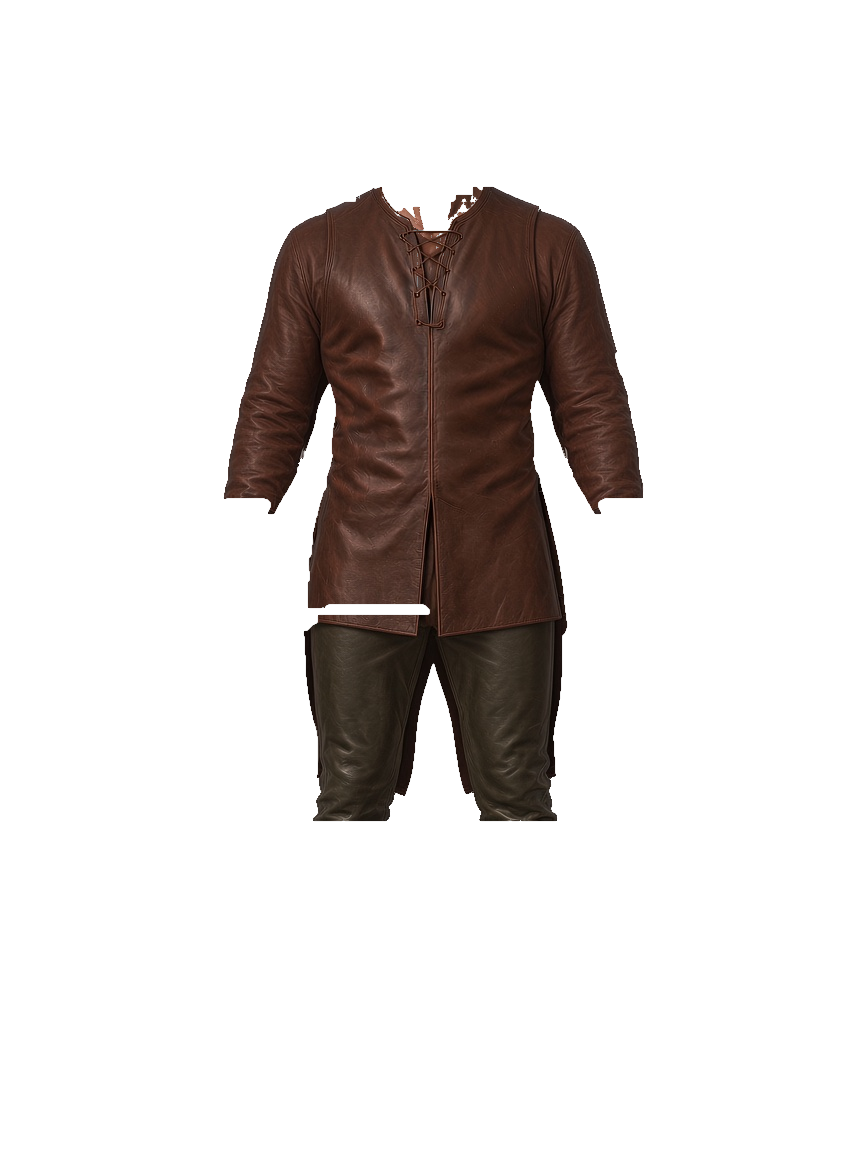
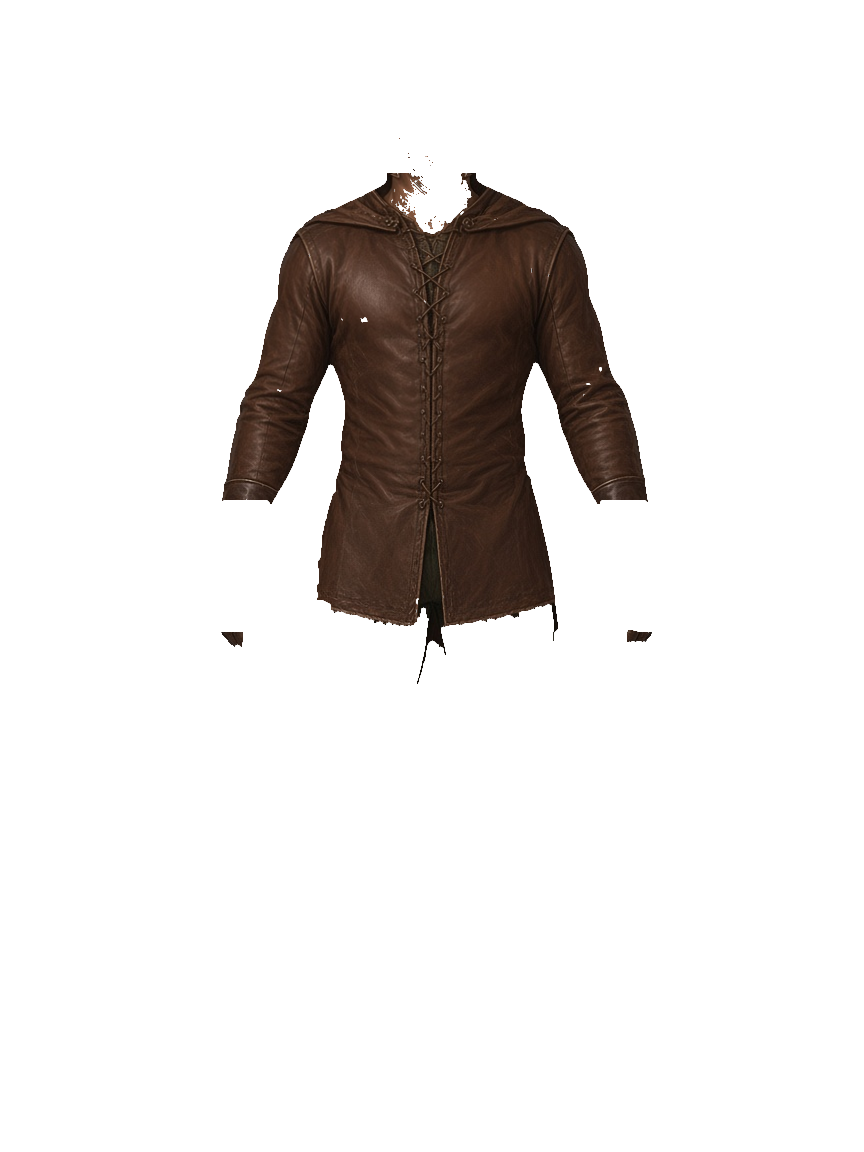
Recut common leather from outfits painted on the exact bases.
Hood and female mantle sit on the chest so they composite in front;
the hanging cloak stays behind the body. Old common layers are kept
in the working tree as leather/common/layers-old/. Mixer cache-bust
is 20261116-onbase. Sheet: dolltest/v5/onbase-common.png.

diff --git a/dolltest/v5/layers.html b/dolltest/v5/layers.html
@@ -99,7 +99,7 @@
     let gender = "male";
     const pick = Object.fromEntries(SLOTS.map((s) => [s, "common"]));
     // Bump this whenever layer PNGs change so iOS Safari does not keep stale tiles.
-    const LAYER_V = "20261116-collar";
+    const LAYER_V = "20261116-onbase";
 
     const $ = (id) => document.getElementById(id);
 
